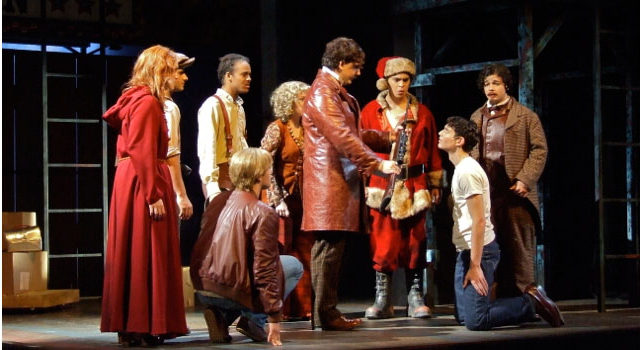
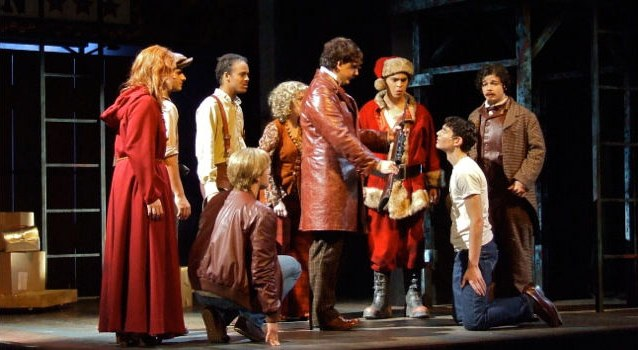
Fixed some photo cropping issues

diff --git a/index.html b/index.html
@@ -635,7 +635,7 @@
     // ── Image dimensions map (w, h) — used to set width/height attrs
     // for CLS. Regenerated by working_files/build_image_dims.py whenever
     // images are added or replaced.
-    const imageDims = {"images/another-murder-another-show/another-murder-01-thumb.jpg":[300,300],"images/another-murder-another-show/another-murder-01.jpg":[1600,611],"images/another-murder-another-show/another-murder-02.jpg":[960,640],"images/another-murder-another-show/another-murder-04.jpg":[960,640],"images/another-murder-another-show/another-murder-05.jpg":[960,641],"images/another-murder-another-show/another-murder-06.jpg":[960,641],"images/another-murder-another-show/another-murder-07.jpg":[960,641],"images/aria-redux/aria-01-thumb.jpg":[1024,604],"images/aria-redux/aria-01.jpg":[1154,681],"images/aria-redux/aria-02.jpg":[724,1086],"images/aria-redux/aria-03.jpg":[1086,724],"images/aria-redux/aria-04.jpg":[724,1086],"images/aria-redux/aria-05.jpg":[724,1086],"images/aria-redux/aria-costume-rendering.jpg":[319,349],"images/aria-redux/aria-group.jpg":[580,350],"images/aria-redux/aria-panniers.jpg":[383,350],"images/aria-redux/aria-tutu.jpg":[580,350],"images/assassins/assassins-1930s.jpg":[333,350],"images/assassins/assassins-balladeer.jpg":[701,350],"images/assassins/assassins-booth.jpg":[357,350],"images/assassins/assassins-costume-rendering.jpg":[266,350],"images/assassins/assassins-group.jpg":[640,350],"images/assassins/assassins-mckinley.jpg":[580,350],"images/assassins/assassins-santa-suit.jpg":[580,350],"images/assassins/assassins-squeaky-and-moore.jpg":[580,350],"images/brer-cotton/cotton-01.jpg":[2000,1103],"images/brer-cotton/cotton-archive-06.jpg":[2000,1333],"images/brer-cotton/cotton-archive-24.jpg":[3744,5616],"images/brer-cotton/cotton-archive-25.jpg":[3744,5616],"images/brer-cotton/cotton-archive-28.jpg":[2000,1068],"images/brer-cotton/cotton-archive-34.jpg":[2000,1333],"images/brer-cotton/cotton-archive-49.jpg":[2000,1333],"images/brer-cotton/cotton-archive-50.jpg":[2000,1333],"images/brer-cotton/cotton-archive-51-thumb.jpg":[1024,682],"images/brer-cotton/cotton-archive-51.jpg":[2000,1333],"images/cendrillon/cendrillon-01.jpg":[1600,1067],"images/cendrillon/cendrillon-02.jpg":[1600,1067],"images/cendrillon/cendrillon-03.jpg":[1600,1067],"images/cendrillon/cendrillon-04-thumb.jpg":[400,267],"images/cendrillon/cendrillon-04.jpg":[1600,1067],"images/cendrillon/cendrillon-05.jpg":[1600,1067],"images/cendrillon/cendrillon-06.jpg":[1600,1067],"images/cendrillon/cendrillon-07.jpg":[1600,1067],"images/cendrillon/cendrillon-08.jpg":[1600,1067],"images/death-is-a-bad-habit/death-01-thumb.jpg":[400,290],"images/death-is-a-bad-habit/death-01.jpg":[960,696],"images/death-is-a-bad-habit/death-02.jpg":[960,640],"images/death-is-a-bad-habit/death-03.jpg":[960,640],"images/death-is-a-bad-habit/death-04.jpg":[1024,768],"images/death-is-a-bad-habit/death-05.jpg":[1024,682],"images/death-is-a-bad-habit/death-06.jpg":[1024,404],"images/death-is-a-bad-habit/death-07.jpg":[768,768],"images/death-is-a-bad-habit/death-pegasus-production.jpg":[1000,667],"images/death-on-delivery/death-on-delivery-01-thumb.jpg":[400,267],"images/death-on-delivery/death-on-delivery-01.jpg":[1000,667],"images/death-on-delivery/death-on-delivery-02.jpg":[960,640],"images/death-on-delivery/death-on-delivery-03.jpg":[960,640],"images/death-on-delivery/death-on-delivery-04.jpg":[960,640],"images/death-on-delivery/death-on-delivery-05.jpg":[960,640],"images/death-on-delivery/death-on-delivery-06.jpg":[960,640],"images/death-on-delivery/death-on-delivery-07.jpg":[640,960],"images/death-on-delivery/death-on-delivery-08.jpg":[948,557],"images/death-on-delivery/death-on-delivery-09.jpg":[960,640],"images/dumb-waiter/dumb-waiter-0041-thumb.jpg":[1024,682],"images/dumb-waiter/dumb-waiter-0041.jpg":[2000,1333],"images/dumb-waiter/dumb-waiter-01.jpg":[1024,682],"images/dumb-waiter/dumb-waiter-0255.jpg":[2000,1333],"images/dumb-waiter/dumb-waiter-0331.jpg":[2000,1333],"images/dumb-waiter/dumb-waiter-0611.jpg":[2000,1333],"images/its-beginning-to-look-a-lot-like-murder/beginning-to-look-like-murder-02-thumb.jpg":[400,267],"images/its-beginning-to-look-a-lot-like-murder/beginning-to-look-like-murder-02.jpg":[1000,667],"images/its-beginning-to-look-a-lot-like-murder/beginning-to-look-like-murder-03.jpg":[1000,667],"images/its-beginning-to-look-a-lot-like-murder/beginning-to-look-like-murder-04.jpg":[1000,667],"images/king-lear/lear-group.jpg":[1600,1065],"images/king-lear/lear-ngl-01.jpg":[940,686],"images/king-lear/lear-sd-115a.jpg":[2000,1331],"images/king-lear/lear-sd-336-thumb.jpg":[1024,681],"images/king-lear/lear-sd-336.jpg":[4256,2832],"images/loves-labors-lost/loves-labour-armado.jpg":[321,349],"images/loves-labors-lost/loves-labour-biron.jpg":[561,325],"images/loves-labors-lost/loves-labour-dull.jpg":[580,350],"images/loves-labors-lost/loves-labour-hunter.jpg":[354,349],"images/loves-labors-lost/loves-labour-ladies-suit.jpg":[321,349],"images/loves-labors-lost/loves-labour-ladies-swimsuits.jpg":[580,350],"images/lucia-di-lammermoor/lucia-02960.jpg":[2560,1439],"images/lucia-di-lammermoor/lucia-03023.jpg":[2560,2048],"images/lucia-di-lammermoor/lucia-03278.jpg":[2560,1439],"images/lucia-di-lammermoor/lucia-03307.jpg":[2560,1440],"images/lucia-di-lammermoor/lucia-03329.jpg":[2560,1439],"images/lucia-di-lammermoor/lucia-03391.jpg":[2560,1439],"images/lucia-di-lammermoor/lucia-03412.jpg":[2560,1439],"images/lucia-di-lammermoor/lucia-03521-thumb.jpg":[400,320],"images/lucia-di-lammermoor/lucia-03521.jpg":[2560,2048],"images/lucia-di-lammermoor/lucia-cards.jpg":[1152,2048],"images/lucia-di-lammermoor/lucia-edgardo-card.jpg":[1152,2048],"images/lucia-di-lammermoor/lucia-enrico-card.jpg":[1152,2048],"images/lucia-di-lammermoor/lucia-production-161.jpg":[2560,1707],"images/lucia-di-lammermoor/lucia-production-32.jpg":[2560,1707],"images/lucia-di-lammermoor/lucia-production-37.jpg":[1707,2560],"images/lucia-di-lammermoor/lucia-production-60.jpg":[1707,2560],"images/lucia-di-lammermoor/lucia-raimondo-card.jpg":[1152,2048],"images/macbeth/macbeth-01.jpg":[1600,1067],"images/macbeth/macbeth-02.jpg":[1600,1067],"images/macbeth/macbeth-03.jpg":[1600,1067],"images/macbeth/macbeth-04-thumb.jpg":[400,267],"images/macbeth/macbeth-04.jpg":[1600,1067],"images/macbeth/macbeth-05.jpg":[1600,1067],"images/macbeth/macbeth-06.jpg":[1067,1600],"images/macbeth/macbeth-07.jpg":[1600,1067],"images/macbeth/macbeth-08.jpg":[1067,1600],"images/man-and-superman/man-and-superman-ann.jpg":[309,350],"images/man-and-superman/man-and-superman-arts-review.jpg":[320,247],"images/man-and-superman/man-and-superman-costume-rendering.jpg":[297,349],"images/man-and-superman/man-and-superman-jack-driving.jpg":[254,350],"images/man-and-superman/man-and-superman-jack.jpg":[351,350],"images/man-and-superman/man-and-superman-octavius.jpg":[304,350],"images/man-and-superman/man-and-superman-violet.jpg":[261,255],"images/mary-stuart/mary-stuart-black.jpg":[356,349],"images/mary-stuart/mary-stuart-costume-rendering.jpg":[327,349],"images/mary-stuart/mary-stuart-elizabeth-seated.jpg":[580,350],"images/mary-stuart/mary-stuart-elizabeth.jpg":[580,350],"images/mary-stuart/mary-stuart-men.jpg":[580,350],"images/mary-stuart/mary-stuart-white.jpg":[580,350],"images/midsummer-austin-shakespeare/asm-midsummer-fairy.jpg":[328,350],"images/midsummer-austin-shakespeare/asm-midsummer-lovers.jpg":[310,350],"images/midsummer-austin-shakespeare/asm-midsummer-mechanicals.jpg":[502,350],"images/midsummer-austin-shakespeare/asm-midsummer-oberon.jpg":[493,350],"images/midsummer-austin-shakespeare/asm-midsummer-puck.jpg":[580,350],"images/midsummer-austin-shakespeare/asm-midsummer-rendering.jpg":[265,349],"images/midsummer-ut-austin/ut-midsummer-240.jpg":[2912,4368],"images/midsummer-ut-austin/ut-midsummer-381.jpg":[4368,2912],"images/midsummer-ut-austin/ut-midsummer-489.jpg":[2912,4368],"images/midsummer-ut-austin/ut-midsummer-604-thumb.jpg":[1024,683],"images/midsummer-ut-austin/ut-midsummer-604.jpg":[4368,2912],"images/midsummer-ut-austin/ut-midsummer-726.jpg":[2912,4368],"images/midsummer-ut-austin/ut-midsummer-bottom.jpg":[580,350],"images/midsummer-ut-austin/ut-midsummer-fairies.jpg":[294,349],"images/midsummer-ut-austin/ut-midsummer-group-273.jpg":[681,1024],"images/midsummer-ut-austin/ut-midsummer-group-tall.jpg":[597,1024],"images/midsummer-ut-austin/ut-midsummer-group-wide.jpg":[1024,681],"images/midsummer-ut-austin/ut-midsummer-lion.jpg":[352,349],"images/midsummer-ut-austin/ut-midsummer-lover-close.jpg":[580,350],"images/midsummer-ut-austin/ut-midsummer-play.jpg":[580,350],"images/midsummer-ut-austin/ut-midsummer-rendering.jpg":[294,349],"images/midsummer-ut-austin/ut-midsummer-titania-sketch.jpg":[2548,3500],"images/midsummer-ut-austin/ut-midsummer-titania.jpg":[2548,3500],"images/much-ado-about-nothing/sd-097-much-ado-thumb.jpg":[1024,681],"images/much-ado-about-nothing/sd-097-much-ado.jpg":[4256,2832],"images/much-ado-about-nothing/sd-189-much-ado.jpg":[2000,1331],"images/much-ado-about-nothing/sd-207-much-ado.jpg":[2000,1331],"images/much-ado-about-nothing/sd-268-much-ado.jpg":[4101,2729],"images/much-ado-about-nothing/sd-297-much-ado.jpg":[4256,2832],"images/much-ado-about-nothing/sd-346-much-ado.jpg":[2098,2741],"images/much-ado-about-nothing/sd-359-much-ado.jpg":[2000,1331],"images/much-ado-about-nothing/sd-363-much-ado.jpg":[3926,2612],"images/se-llama-cristina/cristina-03.jpg":[2000,1638],"images/se-llama-cristina/se-llama-04.jpg":[1024,682],"images/se-llama-cristina/se-llama-041.jpg":[2000,1333],"images/se-llama-cristina/se-llama-05.jpg":[1024,682],"images/se-llama-cristina/se-llama-661.jpg":[2000,1333],"images/se-llama-cristina/se-llama-722.jpg":[2000,1333],"images/se-llama-cristina/se-llama-production-03-thumb.jpg":[1024,682],"images/se-llama-cristina/se-llama-production-03.jpg":[2000,1333],"images/she-stoops-to-conquer/she-stoops-00.jpg":[1024,740],"images/she-stoops-to-conquer/she-stoops-02.jpg":[1024,682],"images/she-stoops-to-conquer/she-stoops-10.jpg":[1024,682],"images/she-stoops-to-conquer/she-stoops-19.jpg":[1024,633],"images/she-stoops-to-conquer/she-stoops-22.jpg":[1024,682],"images/she-stoops-to-conquer/she-stoops-24.jpg":[1024,616],"images/she-stoops-to-conquer/she-stoops-27.jpg":[1024,748],"images/she-stoops-to-conquer/she-stoops-33.jpg":[1024,728],"images/she-stoops-to-conquer/she-stoops-40.jpg":[1024,685],"images/she-stoops-to-conquer/she-stoops-fabric.jpg":[2448,2448],"images/tartuffe/sd-049-tartuffe.jpg":[2832,4256],"images/tartuffe/sd-057-tartuffe-thumb.jpg":[1024,681],"images/tartuffe/sd-057-tartuffe.jpg":[4256,2832],"images/tartuffe/sd-110-tartuffe.jpg":[4256,2832],"images/tartuffe/sd-124-tartuffe.jpg":[2000,1331],"images/tartuffe/sd-176-tartuffe.jpg":[2000,1331],"images/tartuffe/sd-370-tartuffe.jpg":[2000,1331],"images/tartuffe/sd-423-tartuffe.jpg":[3872,2592],"images/tartuffe/tartuffe-01.jpg":[960,640],"images/the-beauty-queen-of-leenane/beauty-queen-0318.jpg":[1024,682],"images/the-beauty-queen-of-leenane/beauty-queen-0443.jpg":[682,1024],"images/the-beauty-queen-of-leenane/beauty-queen-0758.jpg":[682,1024],"images/the-beauty-queen-of-leenane/beauty-queen-mm1.jpg":[1024,682],"images/the-beauty-queen-of-leenane/beauty-queen-ngd-02.jpg":[1024,819],"images/the-beauty-queen-of-leenane/beauty-queen-production-03.jpg":[2000,1333],"images/the-beauty-queen-of-leenane/beauty-queen-rendering.jpg":[1385,2560],"images/the-tempest/sd-035-the-tempest.jpg":[768,511],"images/the-tempest/sd-056-the-tempest.jpg":[768,511],"images/the-tempest/sd-106-the-tempest.jpg":[768,511],"images/the-tempest/sd-118-the-tempest-cropped.jpg":[768,512],"images/the-tempest/sd-234-the-tempest.jpg":[768,511],"images/the-tempest/sd-247-the-tempest.jpg":[1024,762],"images/the-tempest/sd-284-the-tempest.jpg":[768,511],"images/the-tempest/sd-343-the-tempest.jpg":[768,511],"images/the-tempest/sd-459-the-tempest.jpg":[433,576],"images/the-tempest/sd-516-the-tempest.jpg":[768,511],"images/the-tempest/sd-543-the-tempest.jpg":[768,511],"images/the-tempest/tempest-costume-rendering.jpg":[285,349],"images/tosca/tosca-0194.jpg":[2560,1705],"images/tosca/tosca-0196-thumb.jpg":[1024,682],"images/tosca/tosca-0196.jpg":[2560,1705],"images/tosca/tosca-0200.jpg":[2560,1705],"images/tosca/tosca-0203.jpg":[2560,1705],"images/tosca/tosca-0205.jpg":[1705,2560],"images/tosca/tosca-0208.jpg":[2560,1705],"images/tosca/tosca-0212.jpg":[1705,2560],"images/tosca/tosca-0215.jpg":[2560,1705],"images/tosca/tosca-0218.jpg":[2560,1705],"images/tosca/tosca-0220.jpg":[1705,2560],"images/tosca/tosca-0221.jpg":[2560,1705]};
+    const imageDims = {"images/another-murder-another-show/another-murder-01-thumb.jpg":[300,300],"images/another-murder-another-show/another-murder-01.jpg":[1600,611],"images/another-murder-another-show/another-murder-02.jpg":[960,640],"images/another-murder-another-show/another-murder-04.jpg":[960,640],"images/another-murder-another-show/another-murder-05.jpg":[960,641],"images/another-murder-another-show/another-murder-06.jpg":[960,641],"images/another-murder-another-show/another-murder-07.jpg":[960,641],"images/aria-redux/aria-01-thumb.jpg":[1024,604],"images/aria-redux/aria-01.jpg":[1154,681],"images/aria-redux/aria-02.jpg":[724,1086],"images/aria-redux/aria-03.jpg":[1086,724],"images/aria-redux/aria-04.jpg":[724,1086],"images/aria-redux/aria-05.jpg":[724,1086],"images/aria-redux/aria-costume-rendering.jpg":[319,349],"images/aria-redux/aria-group.jpg":[580,350],"images/aria-redux/aria-panniers.jpg":[383,350],"images/aria-redux/aria-tutu.jpg":[580,350],"images/assassins/assassins-1930s.jpg":[333,350],"images/assassins/assassins-balladeer.jpg":[700,350],"images/assassins/assassins-booth.jpg":[357,350],"images/assassins/assassins-costume-rendering.jpg":[257,350],"images/assassins/assassins-group.jpg":[638,350],"images/assassins/assassins-mckinley.jpg":[580,350],"images/assassins/assassins-santa-suit.jpg":[580,350],"images/assassins/assassins-squeaky-and-moore.jpg":[580,350],"images/brer-cotton/cotton-01.jpg":[2000,1103],"images/brer-cotton/cotton-archive-06.jpg":[2000,1333],"images/brer-cotton/cotton-archive-24.jpg":[3744,5616],"images/brer-cotton/cotton-archive-25.jpg":[3744,5616],"images/brer-cotton/cotton-archive-28.jpg":[2000,1068],"images/brer-cotton/cotton-archive-34.jpg":[2000,1333],"images/brer-cotton/cotton-archive-49.jpg":[2000,1333],"images/brer-cotton/cotton-archive-50.jpg":[2000,1333],"images/brer-cotton/cotton-archive-51-thumb.jpg":[1024,682],"images/brer-cotton/cotton-archive-51.jpg":[2000,1333],"images/cendrillon/cendrillon-01.jpg":[1600,1067],"images/cendrillon/cendrillon-02.jpg":[1600,1067],"images/cendrillon/cendrillon-03.jpg":[1600,1067],"images/cendrillon/cendrillon-04-thumb.jpg":[400,267],"images/cendrillon/cendrillon-04.jpg":[1600,1067],"images/cendrillon/cendrillon-05.jpg":[1600,1067],"images/cendrillon/cendrillon-06.jpg":[1600,1067],"images/cendrillon/cendrillon-07.jpg":[1600,1067],"images/cendrillon/cendrillon-08.jpg":[1600,1067],"images/death-is-a-bad-habit/death-01-thumb.jpg":[400,290],"images/death-is-a-bad-habit/death-01.jpg":[960,696],"images/death-is-a-bad-habit/death-02.jpg":[960,640],"images/death-is-a-bad-habit/death-03.jpg":[960,640],"images/death-is-a-bad-habit/death-04.jpg":[1024,768],"images/death-is-a-bad-habit/death-05.jpg":[1024,682],"images/death-is-a-bad-habit/death-06.jpg":[1024,404],"images/death-is-a-bad-habit/death-07.jpg":[768,768],"images/death-is-a-bad-habit/death-pegasus-production.jpg":[1000,667],"images/death-on-delivery/death-on-delivery-01-thumb.jpg":[400,267],"images/death-on-delivery/death-on-delivery-01.jpg":[1000,667],"images/death-on-delivery/death-on-delivery-02.jpg":[960,640],"images/death-on-delivery/death-on-delivery-03.jpg":[960,640],"images/death-on-delivery/death-on-delivery-04.jpg":[960,640],"images/death-on-delivery/death-on-delivery-05.jpg":[960,640],"images/death-on-delivery/death-on-delivery-06.jpg":[960,640],"images/death-on-delivery/death-on-delivery-07.jpg":[640,960],"images/death-on-delivery/death-on-delivery-08.jpg":[948,557],"images/death-on-delivery/death-on-delivery-09.jpg":[960,640],"images/dumb-waiter/dumb-waiter-0041-thumb.jpg":[1024,682],"images/dumb-waiter/dumb-waiter-0041.jpg":[2000,1333],"images/dumb-waiter/dumb-waiter-01.jpg":[1024,682],"images/dumb-waiter/dumb-waiter-0255.jpg":[2000,1333],"images/dumb-waiter/dumb-waiter-0331.jpg":[2000,1333],"images/dumb-waiter/dumb-waiter-0611.jpg":[2000,1333],"images/its-beginning-to-look-a-lot-like-murder/beginning-to-look-like-murder-02-thumb.jpg":[400,267],"images/its-beginning-to-look-a-lot-like-murder/beginning-to-look-like-murder-02.jpg":[1000,667],"images/its-beginning-to-look-a-lot-like-murder/beginning-to-look-like-murder-03.jpg":[1000,667],"images/its-beginning-to-look-a-lot-like-murder/beginning-to-look-like-murder-04.jpg":[1000,667],"images/king-lear/lear-group.jpg":[1600,1065],"images/king-lear/lear-ngl-01.jpg":[940,686],"images/king-lear/lear-sd-115a.jpg":[2000,1331],"images/king-lear/lear-sd-336-thumb.jpg":[1024,681],"images/king-lear/lear-sd-336.jpg":[4256,2832],"images/loves-labors-lost/loves-labour-armado.jpg":[321,349],"images/loves-labors-lost/loves-labour-biron.jpg":[561,325],"images/loves-labors-lost/loves-labour-dull.jpg":[580,350],"images/loves-labors-lost/loves-labour-hunter.jpg":[354,349],"images/loves-labors-lost/loves-labour-ladies-suit.jpg":[321,349],"images/loves-labors-lost/loves-labour-ladies-swimsuits.jpg":[580,350],"images/lucia-di-lammermoor/lucia-02960.jpg":[2560,1439],"images/lucia-di-lammermoor/lucia-03023.jpg":[2560,2048],"images/lucia-di-lammermoor/lucia-03278.jpg":[2560,1439],"images/lucia-di-lammermoor/lucia-03307.jpg":[2560,1440],"images/lucia-di-lammermoor/lucia-03329.jpg":[2560,1439],"images/lucia-di-lammermoor/lucia-03391.jpg":[2560,1439],"images/lucia-di-lammermoor/lucia-03412.jpg":[2560,1439],"images/lucia-di-lammermoor/lucia-03521-thumb.jpg":[400,320],"images/lucia-di-lammermoor/lucia-03521.jpg":[2560,2048],"images/lucia-di-lammermoor/lucia-cards.jpg":[1152,2048],"images/lucia-di-lammermoor/lucia-edgardo-card.jpg":[1152,2048],"images/lucia-di-lammermoor/lucia-enrico-card.jpg":[1152,2048],"images/lucia-di-lammermoor/lucia-production-161.jpg":[2560,1707],"images/lucia-di-lammermoor/lucia-production-32.jpg":[2560,1707],"images/lucia-di-lammermoor/lucia-production-37.jpg":[1707,2560],"images/lucia-di-lammermoor/lucia-production-60.jpg":[1707,2560],"images/lucia-di-lammermoor/lucia-raimondo-card.jpg":[1152,2048],"images/macbeth/macbeth-01.jpg":[1600,1067],"images/macbeth/macbeth-02.jpg":[1600,1067],"images/macbeth/macbeth-03.jpg":[1600,1067],"images/macbeth/macbeth-04-thumb.jpg":[400,267],"images/macbeth/macbeth-04.jpg":[1600,1067],"images/macbeth/macbeth-05.jpg":[1600,1067],"images/macbeth/macbeth-06.jpg":[1067,1600],"images/macbeth/macbeth-07.jpg":[1600,1067],"images/macbeth/macbeth-08.jpg":[1067,1600],"images/man-and-superman/man-and-superman-ann.jpg":[309,350],"images/man-and-superman/man-and-superman-arts-review.jpg":[320,247],"images/man-and-superman/man-and-superman-costume-rendering.jpg":[297,349],"images/man-and-superman/man-and-superman-jack-driving.jpg":[254,350],"images/man-and-superman/man-and-superman-jack.jpg":[351,350],"images/man-and-superman/man-and-superman-octavius.jpg":[304,350],"images/man-and-superman/man-and-superman-violet.jpg":[261,255],"images/mary-stuart/mary-stuart-black.jpg":[356,349],"images/mary-stuart/mary-stuart-costume-rendering.jpg":[327,349],"images/mary-stuart/mary-stuart-elizabeth-seated.jpg":[580,350],"images/mary-stuart/mary-stuart-elizabeth.jpg":[580,350],"images/mary-stuart/mary-stuart-men.jpg":[580,350],"images/mary-stuart/mary-stuart-white.jpg":[580,350],"images/midsummer-austin-shakespeare/asm-midsummer-fairy.jpg":[328,350],"images/midsummer-austin-shakespeare/asm-midsummer-lovers.jpg":[310,350],"images/midsummer-austin-shakespeare/asm-midsummer-mechanicals.jpg":[502,350],"images/midsummer-austin-shakespeare/asm-midsummer-oberon.jpg":[493,350],"images/midsummer-austin-shakespeare/asm-midsummer-puck.jpg":[580,350],"images/midsummer-austin-shakespeare/asm-midsummer-rendering.jpg":[265,349],"images/midsummer-ut-austin/ut-midsummer-240.jpg":[2912,4368],"images/midsummer-ut-austin/ut-midsummer-381.jpg":[4368,2912],"images/midsummer-ut-austin/ut-midsummer-489.jpg":[2912,4368],"images/midsummer-ut-austin/ut-midsummer-604-thumb.jpg":[1024,683],"images/midsummer-ut-austin/ut-midsummer-604.jpg":[4368,2912],"images/midsummer-ut-austin/ut-midsummer-726.jpg":[2912,4368],"images/midsummer-ut-austin/ut-midsummer-bottom.jpg":[580,350],"images/midsummer-ut-austin/ut-midsummer-fairies.jpg":[294,349],"images/midsummer-ut-austin/ut-midsummer-group-273.jpg":[681,1024],"images/midsummer-ut-austin/ut-midsummer-group-tall.jpg":[597,1024],"images/midsummer-ut-austin/ut-midsummer-group-wide.jpg":[1024,681],"images/midsummer-ut-austin/ut-midsummer-lion.jpg":[352,349],"images/midsummer-ut-austin/ut-midsummer-lover-close.jpg":[580,350],"images/midsummer-ut-austin/ut-midsummer-play.jpg":[580,350],"images/midsummer-ut-austin/ut-midsummer-rendering.jpg":[294,349],"images/midsummer-ut-austin/ut-midsummer-titania-sketch.jpg":[2548,3500],"images/midsummer-ut-austin/ut-midsummer-titania.jpg":[2548,3500],"images/much-ado-about-nothing/sd-097-much-ado-thumb.jpg":[1024,681],"images/much-ado-about-nothing/sd-097-much-ado.jpg":[4256,2832],"images/much-ado-about-nothing/sd-189-much-ado.jpg":[2000,1331],"images/much-ado-about-nothing/sd-207-much-ado.jpg":[2000,1331],"images/much-ado-about-nothing/sd-268-much-ado.jpg":[4101,2729],"images/much-ado-about-nothing/sd-297-much-ado.jpg":[4256,2832],"images/much-ado-about-nothing/sd-346-much-ado.jpg":[2098,2741],"images/much-ado-about-nothing/sd-359-much-ado.jpg":[2000,1331],"images/much-ado-about-nothing/sd-363-much-ado.jpg":[3926,2612],"images/se-llama-cristina/cristina-03.jpg":[2000,1638],"images/se-llama-cristina/se-llama-04.jpg":[1024,682],"images/se-llama-cristina/se-llama-041.jpg":[2000,1333],"images/se-llama-cristina/se-llama-05.jpg":[1024,682],"images/se-llama-cristina/se-llama-661.jpg":[2000,1333],"images/se-llama-cristina/se-llama-722.jpg":[2000,1333],"images/se-llama-cristina/se-llama-production-03-thumb.jpg":[1024,682],"images/se-llama-cristina/se-llama-production-03.jpg":[2000,1333],"images/she-stoops-to-conquer/she-stoops-00.jpg":[1024,740],"images/she-stoops-to-conquer/she-stoops-02.jpg":[1024,682],"images/she-stoops-to-conquer/she-stoops-10.jpg":[1024,682],"images/she-stoops-to-conquer/she-stoops-19.jpg":[1024,633],"images/she-stoops-to-conquer/she-stoops-22.jpg":[1024,682],"images/she-stoops-to-conquer/she-stoops-24.jpg":[1024,616],"images/she-stoops-to-conquer/she-stoops-27.jpg":[1024,748],"images/she-stoops-to-conquer/she-stoops-33.jpg":[1024,728],"images/she-stoops-to-conquer/she-stoops-40.jpg":[1024,685],"images/she-stoops-to-conquer/she-stoops-fabric.jpg":[2448,2448],"images/tartuffe/sd-049-tartuffe.jpg":[2832,4256],"images/tartuffe/sd-057-tartuffe-thumb.jpg":[1024,681],"images/tartuffe/sd-057-tartuffe.jpg":[4256,2832],"images/tartuffe/sd-110-tartuffe.jpg":[4256,2832],"images/tartuffe/sd-124-tartuffe.jpg":[2000,1331],"images/tartuffe/sd-176-tartuffe.jpg":[2000,1331],"images/tartuffe/sd-370-tartuffe.jpg":[2000,1331],"images/tartuffe/sd-423-tartuffe.jpg":[3872,2592],"images/tartuffe/tartuffe-01.jpg":[960,640],"images/the-beauty-queen-of-leenane/beauty-queen-0318.jpg":[1024,682],"images/the-beauty-queen-of-leenane/beauty-queen-0443.jpg":[682,1024],"images/the-beauty-queen-of-leenane/beauty-queen-0758.jpg":[682,1024],"images/the-beauty-queen-of-leenane/beauty-queen-mm1.jpg":[1024,682],"images/the-beauty-queen-of-leenane/beauty-queen-ngd-02.jpg":[1024,819],"images/the-beauty-queen-of-leenane/beauty-queen-production-03.jpg":[2000,1333],"images/the-beauty-queen-of-leenane/beauty-queen-rendering.jpg":[1385,2560],"images/the-tempest/sd-035-the-tempest.jpg":[768,511],"images/the-tempest/sd-056-the-tempest.jpg":[768,511],"images/the-tempest/sd-106-the-tempest.jpg":[768,511],"images/the-tempest/sd-118-the-tempest-cropped.jpg":[768,512],"images/the-tempest/sd-234-the-tempest.jpg":[768,511],"images/the-tempest/sd-247-the-tempest.jpg":[1024,762],"images/the-tempest/sd-284-the-tempest.jpg":[768,511],"images/the-tempest/sd-343-the-tempest.jpg":[768,511],"images/the-tempest/sd-459-the-tempest.jpg":[433,576],"images/the-tempest/sd-516-the-tempest.jpg":[768,511],"images/the-tempest/sd-543-the-tempest.jpg":[768,511],"images/the-tempest/tempest-costume-rendering.jpg":[285,349],"images/tosca/tosca-0194.jpg":[2560,1705],"images/tosca/tosca-0196-thumb.jpg":[1024,682],"images/tosca/tosca-0196.jpg":[2560,1705],"images/tosca/tosca-0200.jpg":[2560,1705],"images/tosca/tosca-0203.jpg":[2560,1705],"images/tosca/tosca-0205.jpg":[1705,2560],"images/tosca/tosca-0208.jpg":[2560,1705],"images/tosca/tosca-0212.jpg":[1705,2560],"images/tosca/tosca-0215.jpg":[2560,1705],"images/tosca/tosca-0218.jpg":[2560,1705],"images/tosca/tosca-0220.jpg":[1705,2560],"images/tosca/tosca-0221.jpg":[2560,1705]};
 
     // ── Show data with real image paths ─────────────────
     const shows = [
